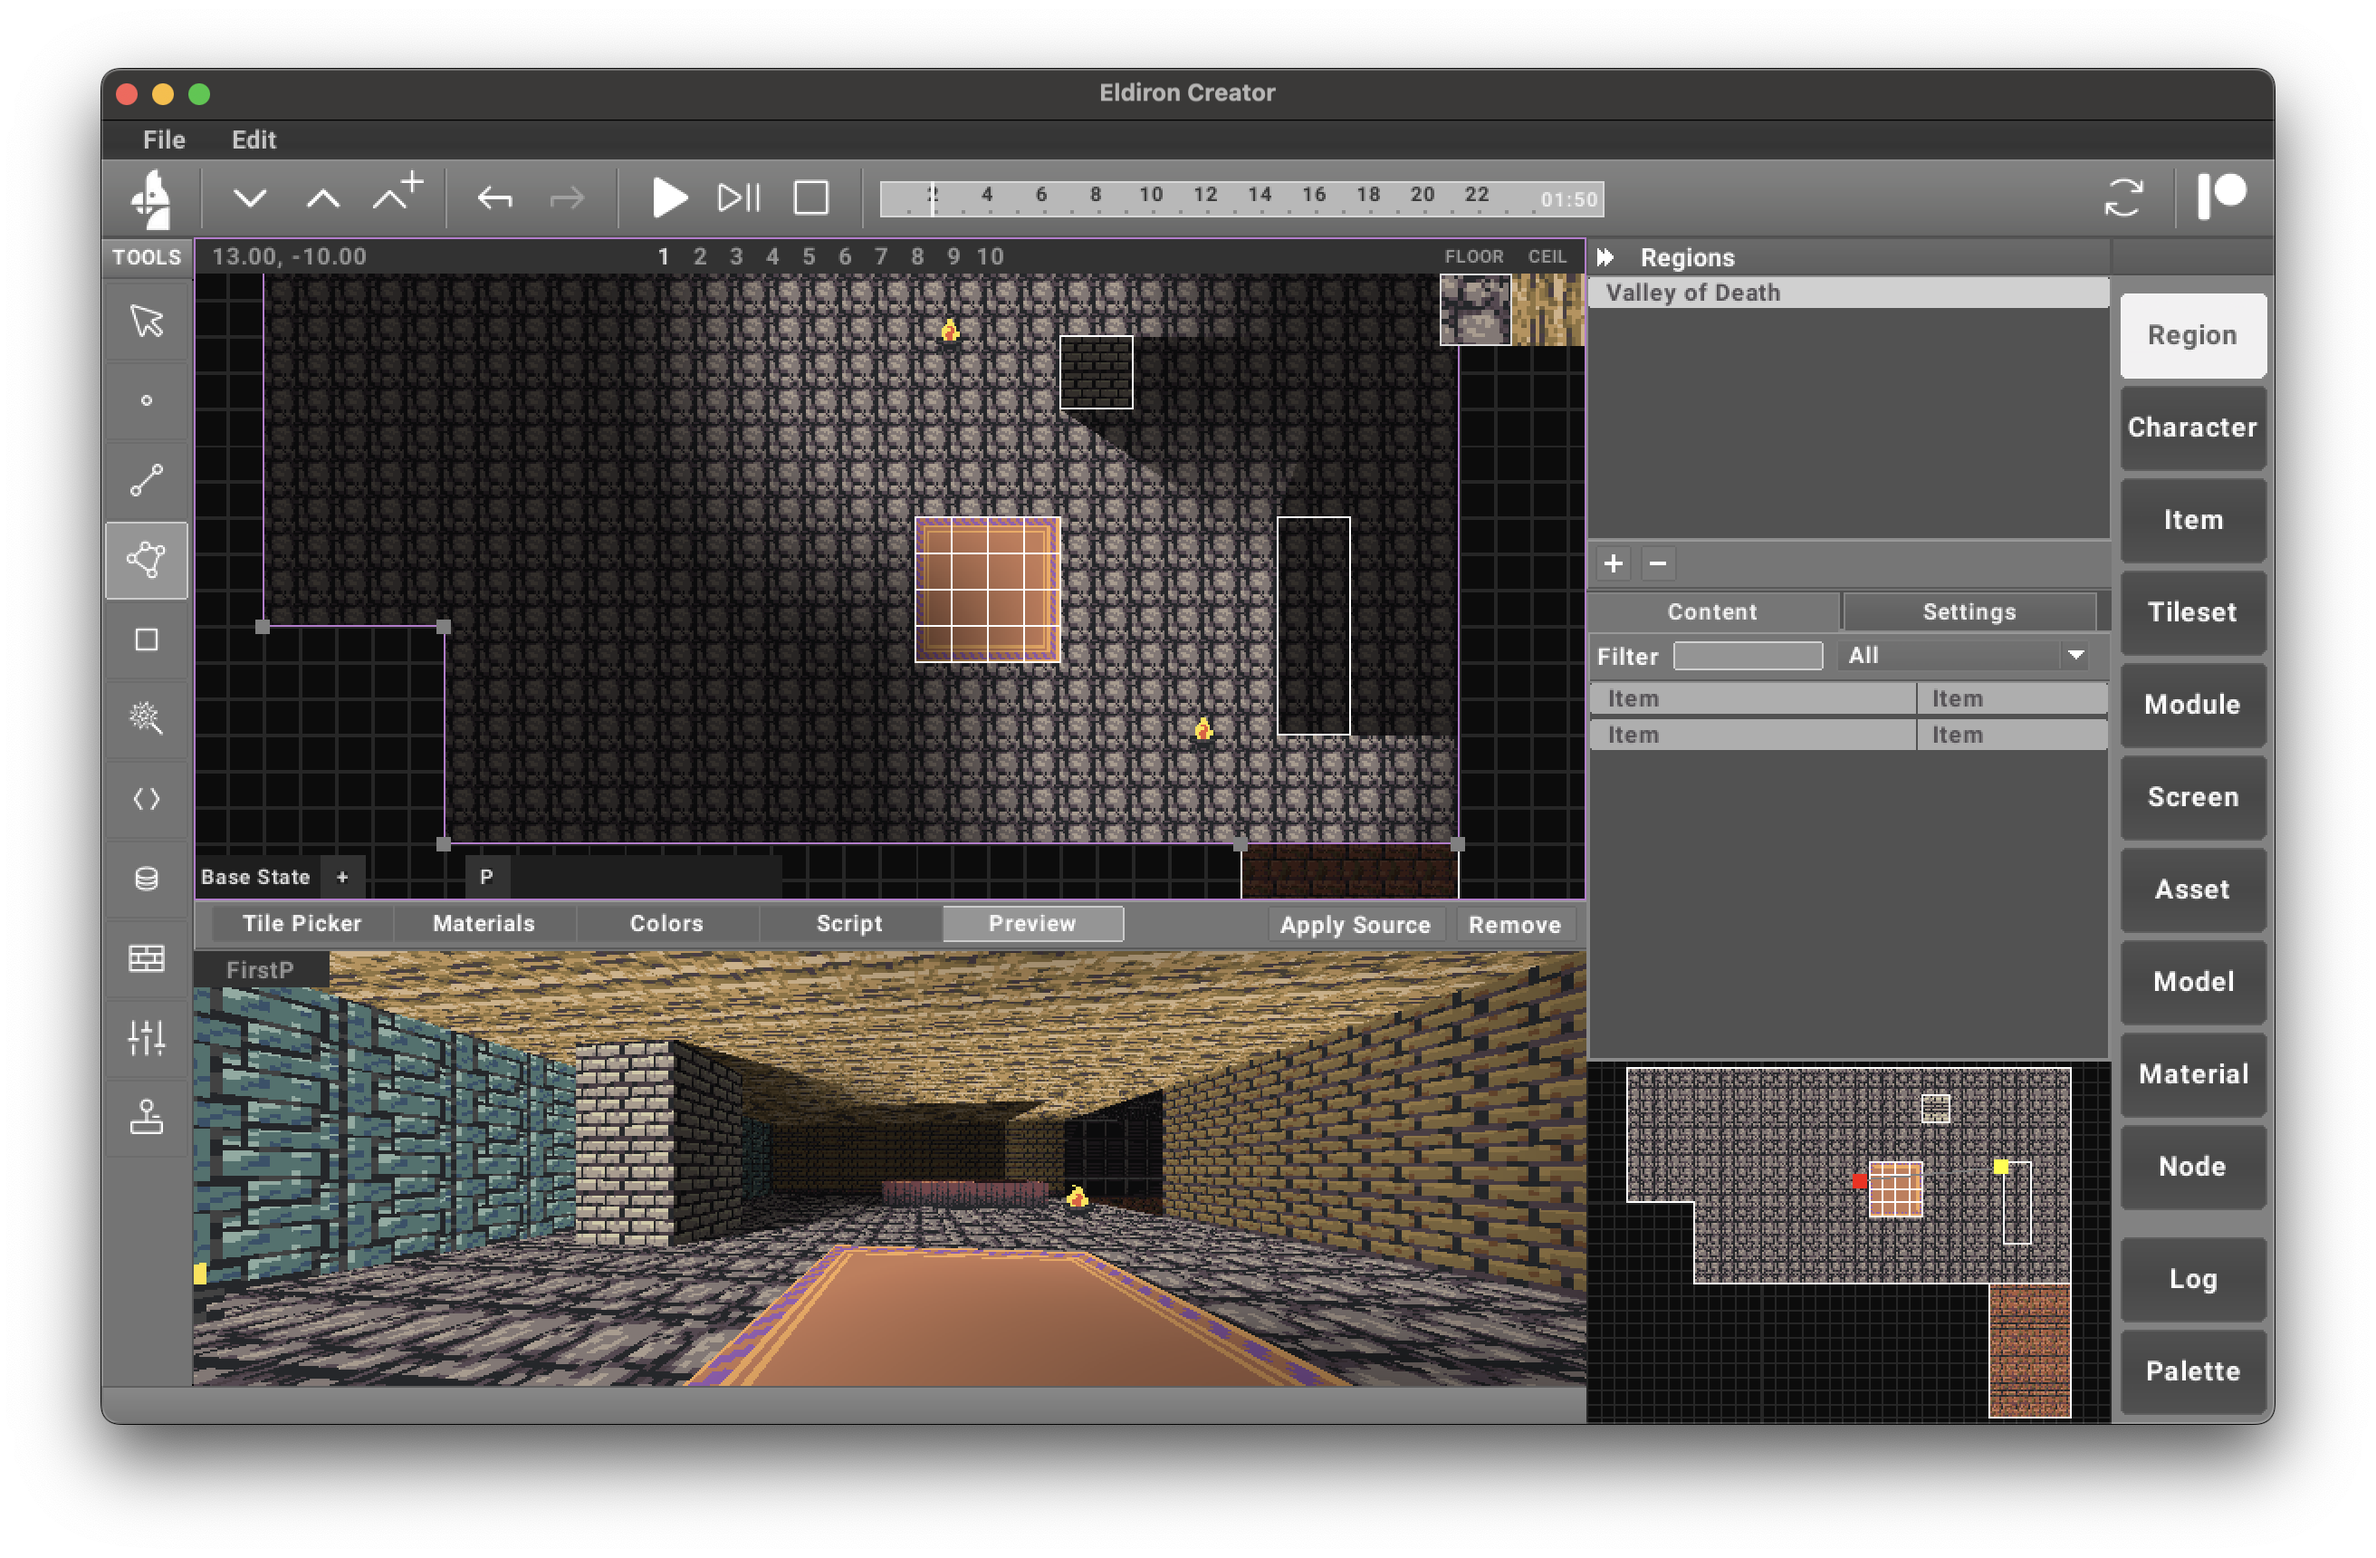
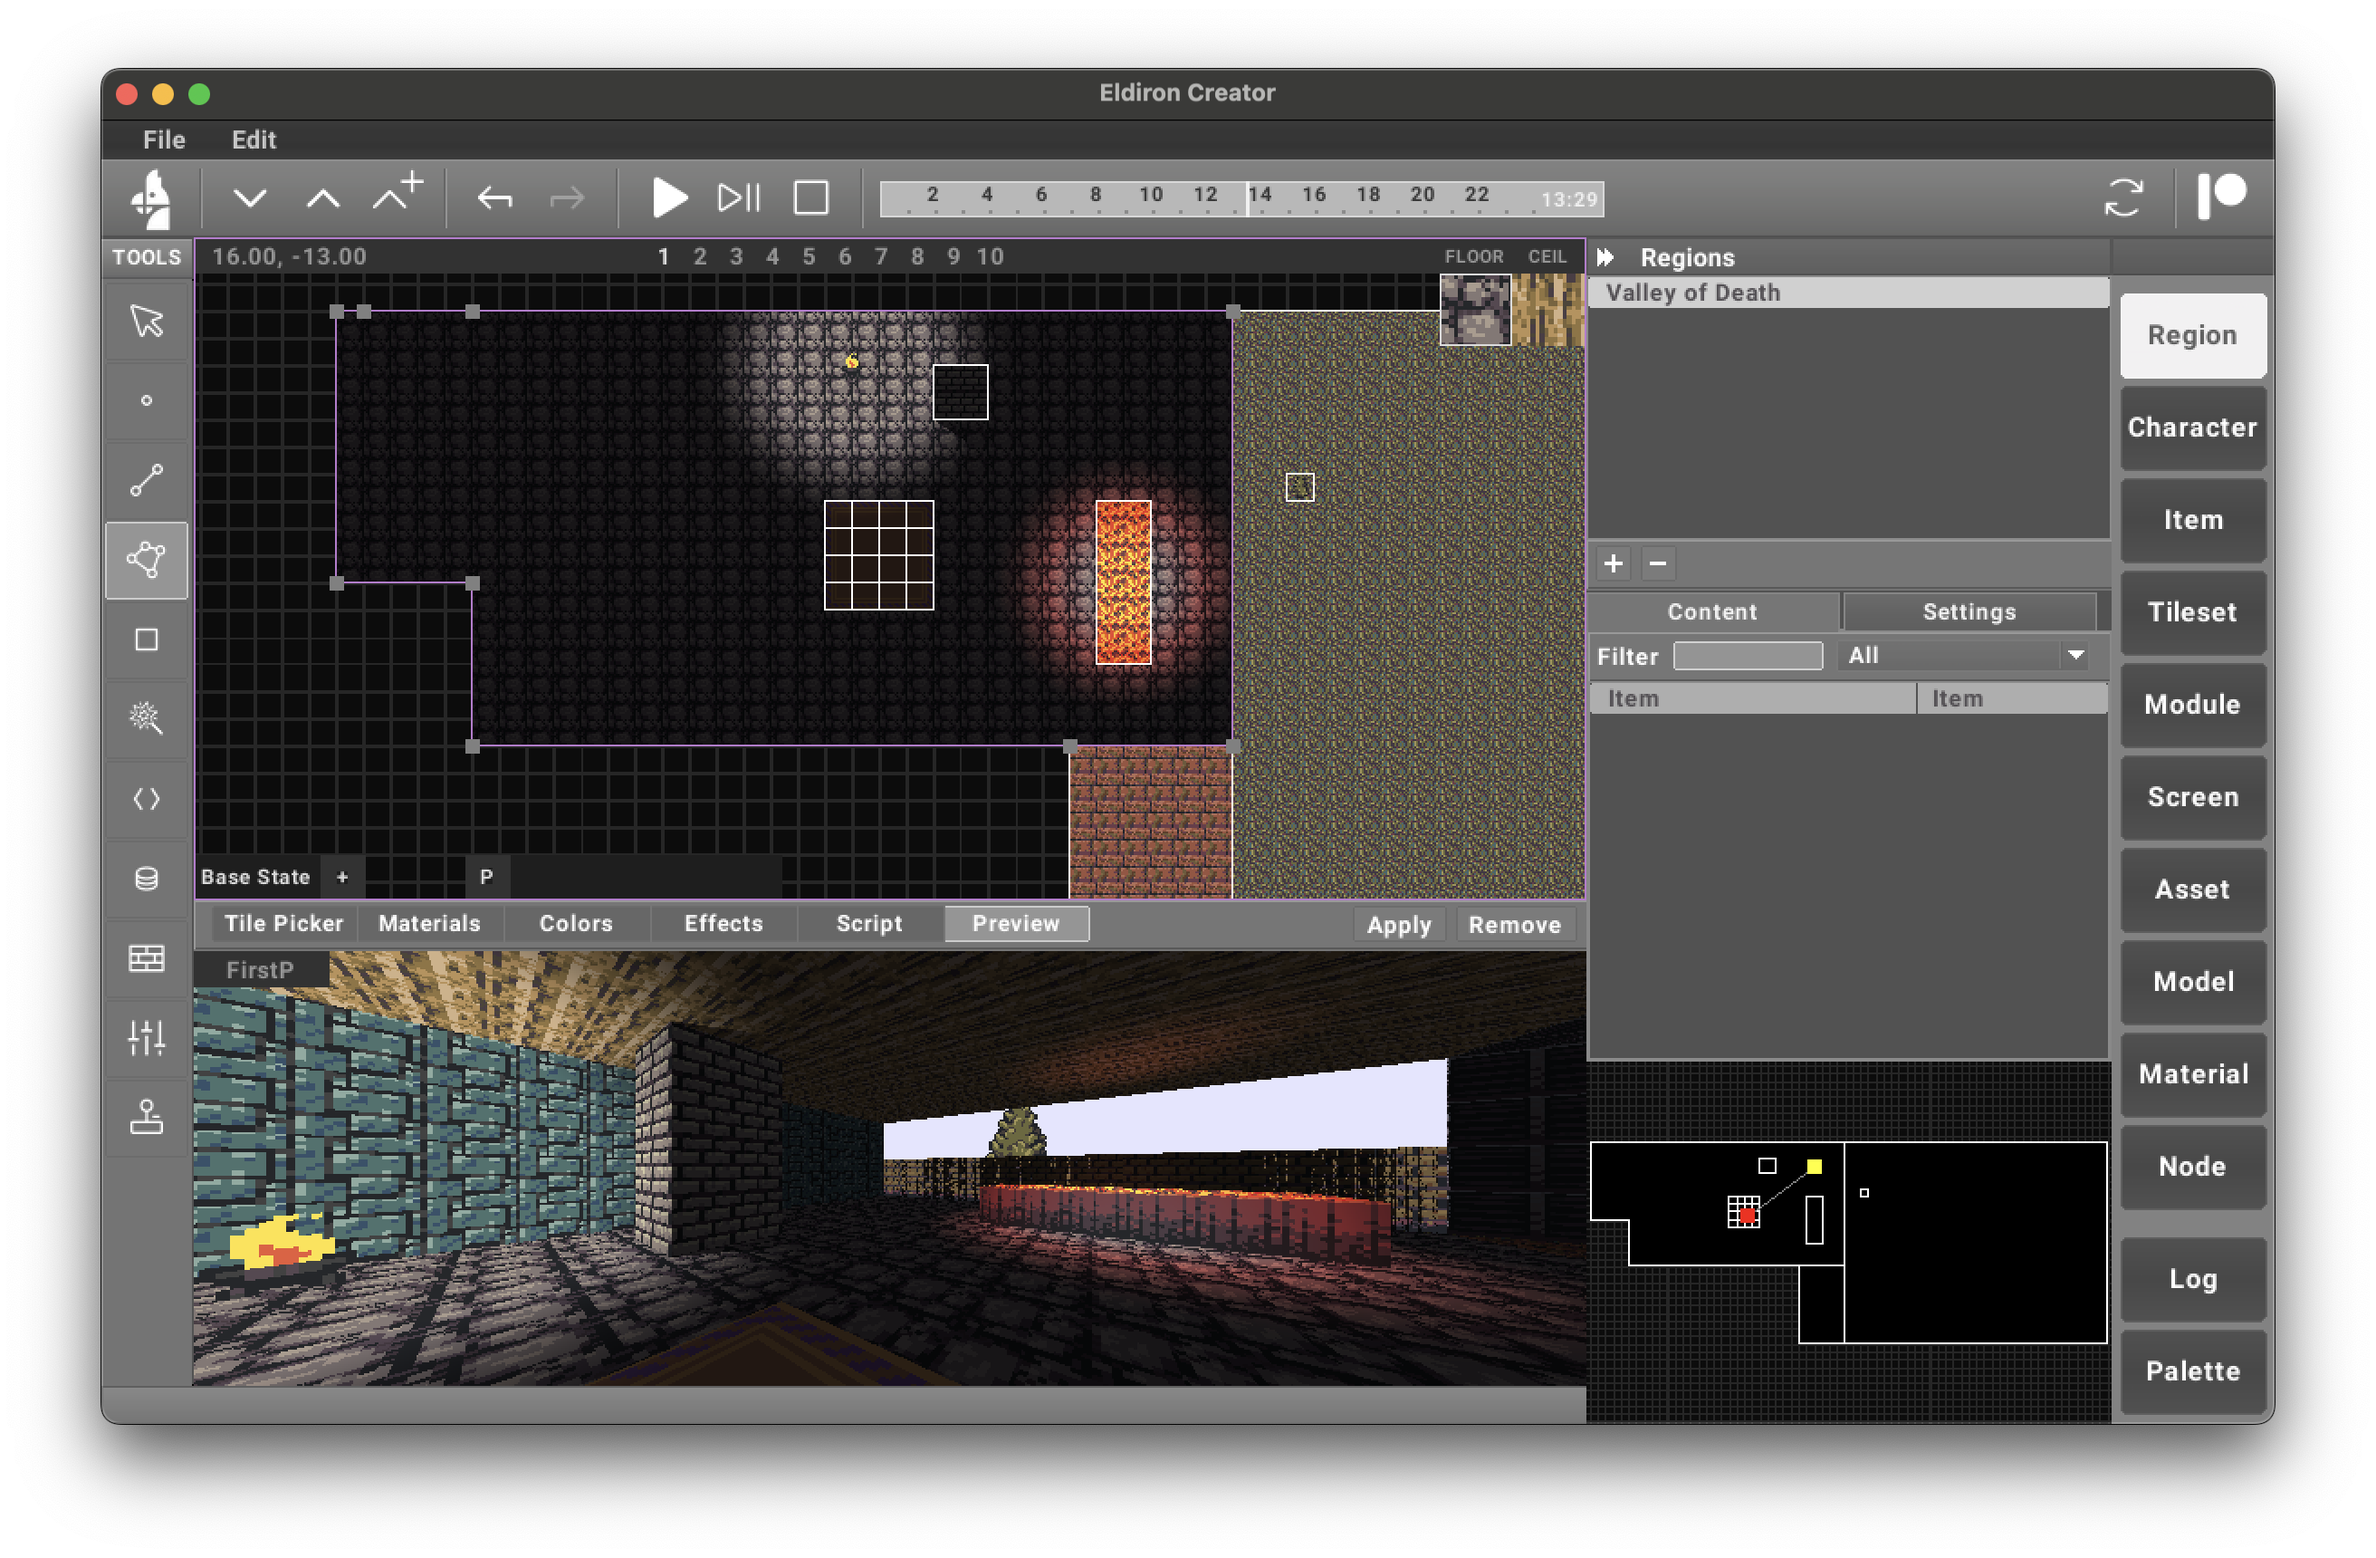
Sector based daylight occlusion

diff --git a/creator/src/tilepicker.rs b/creator/src/tilepicker.rs
@@ -83,13 +83,24 @@ impl TilePicker {
 
         let mut tags = TheTextLineEdit::new(TheId::named(&self.make_id(" Tile Tags")));
         tags.limiter_mut().set_max_width(130);
+        tags.set_info_text(Some("Tags".to_string()));
         tags.set_disabled(true);
+        tags.set_status_text("Tags separated by commas for easy filtering.");
 
-        let mut text = TheText::new(TheId::empty());
-        text.set_text_size(12.0);
-        text.set_text("Tags".to_string());
-        toolbar_hlayout.add_widget(Box::new(text));
+        // let mut text = TheText::new(TheId::empty());
+        // text.set_text_size(12.0);
+        // text.set_text("Tags".to_string());
+        // toolbar_hlayout.add_widget(Box::new(text));
         toolbar_hlayout.add_widget(Box::new(tags));
+        let mut scale = TheTextLineEdit::new(TheId::named(&self.make_id(" Tile Scale")));
+        scale.set_value(TheValue::Float(1.0));
+        scale.set_range(TheValue::RangeF32(0.1..=5.0));
+        scale.set_continuous(false);
+        scale.limiter_mut().set_max_width(120);
+        scale.set_info_text(Some("Scale".to_string()));
+        scale.set_status_text("Defines the tile scale (for billboards).");
+        scale.set_disabled(true);
+        toolbar_hlayout.add_widget(Box::new(scale));
 
         if !minimal {
             let mut zoom = TheSlider::new(TheId::named(&self.make_id(" Zoom")));
@@ -361,6 +372,18 @@ impl TilePicker {
                             }
                         }
                     }
+                } else if id.name == self.make_id(" Tile Scale") {
+                    if let Some(tile_id) = self.curr_tile {
+                        if let Some(tile) = project.get_tile_mut(&tile_id) {
+                            if let Some(value) = value.to_f32() {
+                                tile.scale = value;
+                                ctx.ui.send(TheEvent::Custom(
+                                    TheId::named("Update Tiles"),
+                                    TheValue::Empty,
+                                ));
+                            }
+                        }
+                    }
                 } else if id.name == self.make_id(" Tile Blocking") {
                     if let Some(tile_id) = self.curr_tile {
                         if let Some(tile) = project.get_tile_mut(&tile_id) {
@@ -405,6 +428,15 @@ impl TilePicker {
         if let Some(widget) = ui.get_text_line_edit(&self.make_id(" Tile Tags")) {
             if let Some(tile) = tile {
                 widget.set_text(tile.name.clone());
+                widget.set_disabled(false);
+            } else {
+                widget.set_disabled(true);
+            }
+        }
+
+        if let Some(widget) = ui.get_text_line_edit(&self.make_id(" Tile Scale")) {
+            if let Some(tile) = tile {
+                widget.set_value(TheValue::Float(tile.scale));
                 widget.set_disabled(false);
             } else {
                 widget.set_disabled(true);

diff --git a/creator/src/mapeditor.rs b/creator/src/mapeditor.rs
@@ -823,6 +823,7 @@ impl MapEditor {
                 } else if id.name == "sectorNoiseIntensity"
                     || id.name == "sectorFloorHeight"
                     || id.name == "sectorCeilingHeight"
+                    || id.name == "sectorOcclusion"
                 {
                     if let Some(value) = value.to_f32() {
                         if let Some(map) = project.get_map_mut(server_ctx) {
@@ -1513,6 +1514,16 @@ impl MapEditor {
                     "Set if the ceiling should be displayed in an ISO camera.".into(),
                     vec!["Yes".to_string(), "No".to_string()],
                     sector.properties.get_int_default("ceiling_in_iso", 0),
+                );
+                nodeui.add_item(item);
+
+                let item = TheNodeUIItem::FloatEditSlider(
+                    "sectorOcclusion".into(),
+                    "Occlusion".into(),
+                    "Specifies the occlusion of daylight for the sector. A value of 1.0 means full daylight, 0.0 means no daylight.".into(),
+                    sector.properties.get_float_default("occlusion", 1.0),
+                    0.0..=1.0,
+                    false,
                 );
                 nodeui.add_item(item);
             }

diff --git a/shared/src/tilemap.rs b/shared/src/tilemap.rs
@@ -118,11 +118,17 @@ impl TileRole {
     }
 }
 
+fn default_tile_scale() -> f32 {
+    1.0
+}
+
 #[derive(Serialize, Deserialize, PartialEq, Clone, Debug)]
 pub struct Tile {
     pub id: Uuid,
     pub name: String,
     pub role: TileRole,
+    #[serde(default = "default_tile_scale")]
+    pub scale: f32,
 
     pub sequence: TheRGBARegionSequence,
     pub blocking: bool,
@@ -142,6 +148,7 @@ impl Tile {
             id: Uuid::new_v4(),
             name: String::new(),
             role: TileRole::Nature,
+            scale: 1.0,
 
             sequence: TheRGBARegionSequence::new(),
             blocking: false,

diff --git a/shared/src/project.rs b/shared/src/project.rs
@@ -312,6 +312,7 @@ impl Project {
                 rgba_tile.name.clone_from(&tile.name);
                 rgba_tile.buffer = tilemap.buffer.extract_sequence(&tile.sequence);
                 rgba_tile.role = tile.role as u8;
+                rgba_tile.scale = tile.scale;
                 rgba_tile.render_mode = tile.render_mode;
                 tiles.insert(tile.id, rgba_tile);
             }
